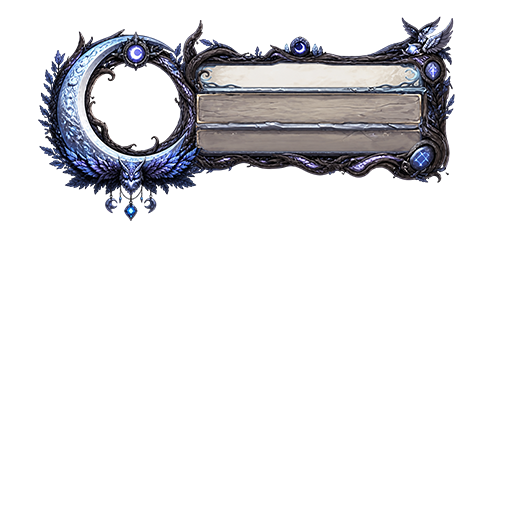
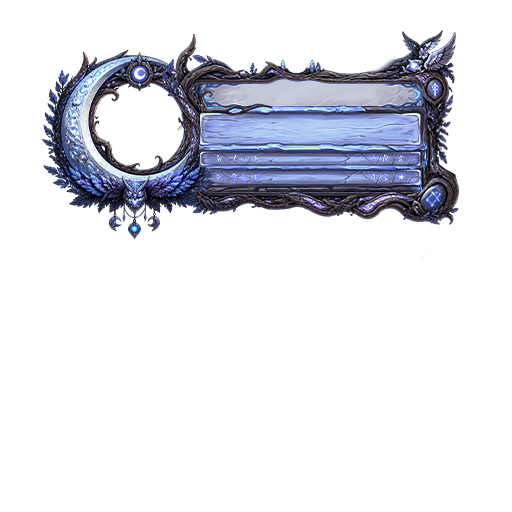
fix: Update balance druid skin and version to 1.3.3

Changed region(s): [[0.0625, 0.0312, 0.9062, 0.4688]]

diff --git a/CHANGELOG.md b/CHANGELOG.md
@@ -4,6 +4,12 @@ All notable changes to **EPF Custom Skins** are documented in this file.
 
 The format is based on [Keep a Changelog](https://keepachangelog.com/en/1.1.0/), and this project adheres to [Semantic Versioning](https://semver.org/spec/v2.0.0.html).
 
+## [1.3.3] - 2026-06-06
+
+### Fixed
+
+- Fixed balance druid skin.
+
 ## [1.3.2] - 2026-06-06
 
 ### Added

diff --git a/README.md b/README.md
@@ -1,7 +1,7 @@
 # EPF Custom Skins
 
 [![License: CC BY-NC-SA 4.0](https://img.shields.io/badge/License-CC%20BY--NC--SA%204.0-blue.svg)](https://creativecommons.org/licenses/by-nc-sa/4.0/)
-[![Version](https://img.shields.io/badge/Version-1.3.2-informational)](ElitePlayerFrame_Enhanced_CustomSkins.toc)
+[![Version](https://img.shields.io/badge/Version-1.3.3-informational)](ElitePlayerFrame_Enhanced_CustomSkins.toc)
 [![WoW](https://img.shields.io/badge/WoW-12.0.5%20(MN)-orange)](https://worldofwarcraft.blizzard.com/)
 [![Lua](https://img.shields.io/badge/Lua-5.x-blue)](https://www.lua.org/)
 